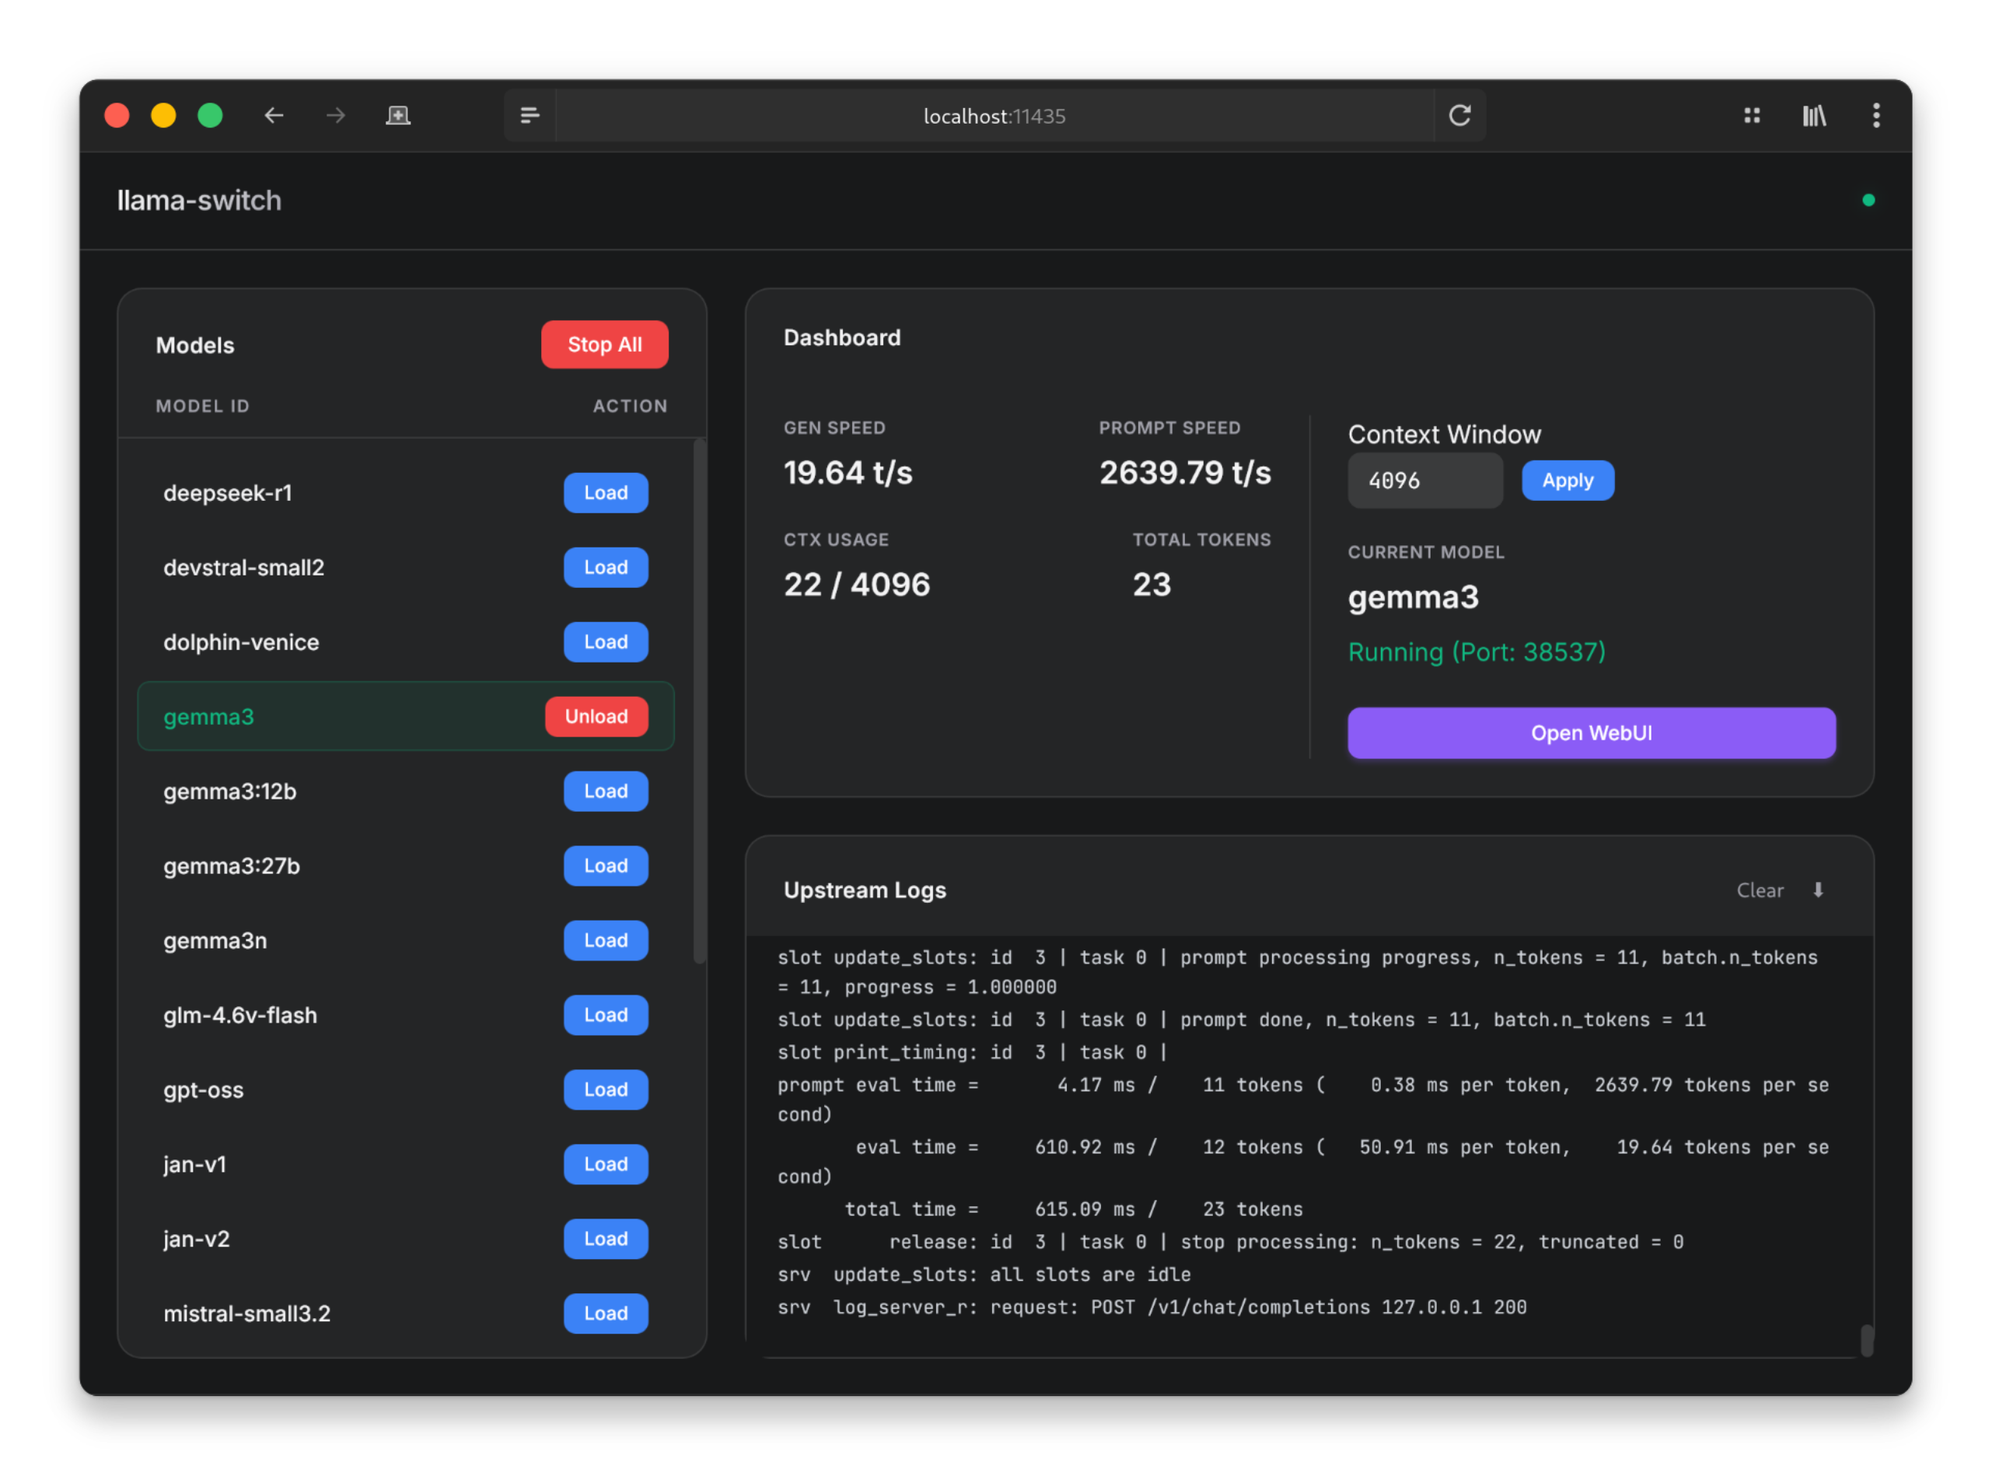
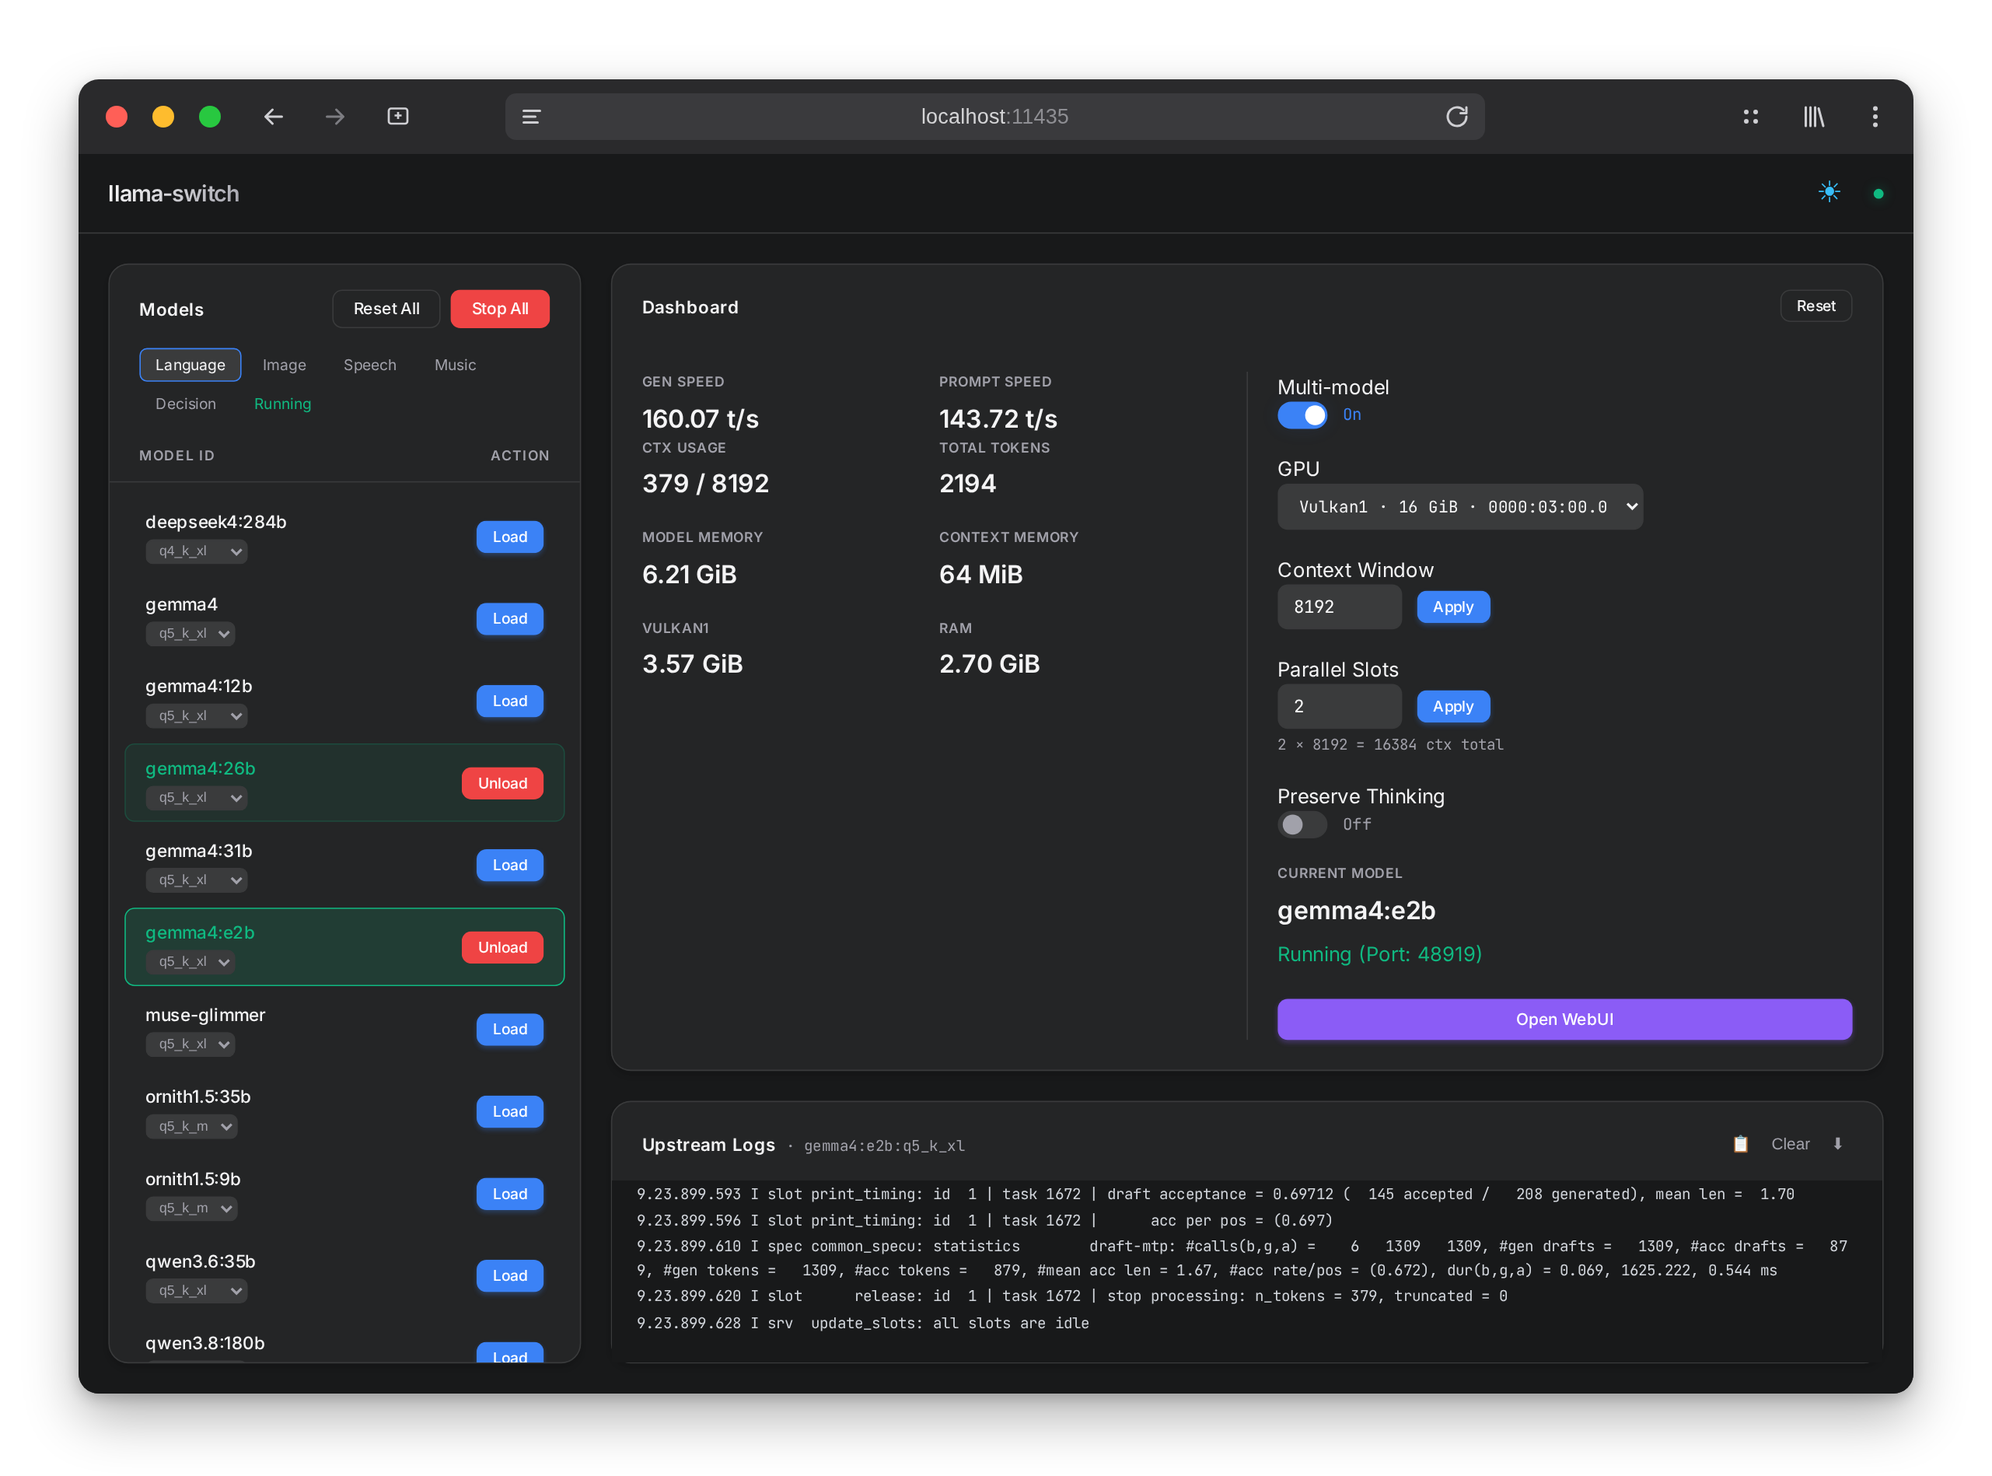
docs: rewrite both READMEs and screenshots for models running side by side

diff --git a/README.md b/README.md
@@ -2,21 +2,29 @@
 
 ![](./ref-dark.png)
 
-A lightweight, modern WebUI manager for switching between local inference servers seamlessly.
+A lightweight, modern WebUI manager for running local inference servers side by side.
 
-Llama Switch puts one dashboard and one OpenAI-compatible endpoint in front of several engines: [llama.cpp](https://github.com/ggerganov/llama.cpp) for text, speech recognition and audio/vision input, [stable-diffusion.cpp](https://github.com/leejet/stable-diffusion.cpp) for images, [qwentts.cpp](https://github.com/ServeurpersoCom/qwentts.cpp) for speech synthesis, [audio.cpp](https://github.com/0xShug0/audio.cpp) for music generation. One model runs at a time; loading another stops the current one automatically.
+Llama Switch puts one dashboard and one OpenAI-compatible endpoint in front of several engines: [llama.cpp](https://github.com/ggerganov/llama.cpp) for text, speech recognition, audio/vision input and decision models, [stable-diffusion.cpp](https://github.com/leejet/stable-diffusion.cpp) for images, [qwentts.cpp](https://github.com/ServeurpersoCom/qwentts.cpp) or [audio.cpp](https://github.com/0xShug0/audio.cpp) for speech synthesis, and audio.cpp for music generation. Several models can run at once, each on its own port and its own cards; with **Multi-model** off it works the old way, one model at a time.
 
 ## Features
 
-- **Four kinds of model in one config**: `llm`, `sd`, `tts` and `music` sections, shown in the UI as **Language**, **Image**, **Speech** and **Music**.
-- **One-click switching**: automatically stops the current model and starts the new one.
-- **Auto-switching from the API**: a request that names a `model` loads it first, whether the name arrives in a JSON body (chat, images, speech) or in a multipart upload (transcriptions, image edits).
-- **Real-time dashboard**, per kind:
+- **Five kinds of model in one config**: `llm`, `sd`, `tts`, `music` and `decision` sections, shown in the UI as **Language**, **Image**, **Speech**, **Music** and **Decision**.
+- **Several models at once**: with **Multi-model** on, loading a model leaves the others running, so a language model, an image model and a voice can be up together. Off, every start stops everything else.
+- **Running tab**: every model that is up, whatever its kind. The tab is green while at least one model is loaded and red when nothing is.
+- **A dashboard per model**: click any row, running or not, and the dashboard describes that model. Every field change restarts it with the new value; whatever is set on a model that is not loaded yet is what **Load** starts it with.
+- **Per-model settings**:
+  - **GPU**: which card the model runs on, or all of them. Image models get one row per module (diffusion, text encoder, VAE); **Profile** keeps what the config says for that module.
+  - **Context Window** (per slot) and **Parallel Slots** for language and decision models.
+  - **Preserve Thinking** for language models, **Output Size** and **Hires Fix** for image models, **Max Frames** for speech.
+- **Reset and Reset All**: a model's settings, or every section's, back to the defaults. Like any field change, a reset restarts what it applies to.
+- **Memory, as the engine reports it**: model and context memory for language and decision models, weights and compute buffer for image models, each split per card and RAM. audio.cpp prints no memory figures, so speech and music on it show none.
+- **Real-time counters**, per kind:
   - **Language:** generation speed (t/s), prompt speed (t/s), context usage, total tokens.
   - **Image:** step time, last image time, step progress, images generated.
   - **Speech:** speed as a multiple of realtime, last clip's length against the time it took, frames generated, clips.
-- **Configurable limits**: context window for `llm`, max frames for `tts`, set before loading a model, remembered per kind.
-- **Upstream Logs**: view raw engine logs directly in the UI.
+  - **Decision:** time of the last decision, its prompt size, requests served.
+- **Auto-switching from the API**: a request that names a `model` loads it first, whether the name arrives in a JSON body (chat, images, speech) or in a multipart upload (transcriptions, image edits).
+- **Upstream Logs**: each model keeps its own log, and the panel names whose log it is showing.
 - **Theme Support**: built-in Dark and Light modes.
 - **WebUI Link**: opens the running engine's own interface on the engine's own address. Engine pages request their paths absolutely, so none of them survive being served under a prefix here.
 - **Config hot-reload**: with `--watch`, edits to the config are picked up without a restart.
@@ -24,8 +32,9 @@ Llama Switch puts one dashboard and one OpenAI-compatible endpoint in front of s
 ## Prerequisites
 
 - **Python 3.8+** with `fastapi`, `uvicorn`, `pyyaml` and `httpx`.
-- **llama-server**: the binary from `llama.cpp`, in `PATH` or given by absolute path in the config.
+- **llama-server**: the binary from `llama.cpp`, in `PATH` or given by absolute path in the config. The GPU picker lists the cards that `llama-server --list-devices` reports, so this one is needed even if you only run other engines.
 - Optional, only for the sections you use: `sd-server` from `stable-diffusion.cpp`, `tts-server` from `qwentts.cpp`, `audiocpp-server` from `audio.cpp` (upstream builds it as `audiocpp_server`).
+- Optional: `vulkaninfo`. With it, each card in the GPU picker is labelled with its PCI address, which is the only thing that tells two identical cards apart.
 
 ## Installation
 
@@ -42,9 +51,23 @@ Llama Switch puts one dashboard and one OpenAI-compatible endpoint in front of s
 
 ## Configuration
 
-Create a `config.yaml` file in the root directory. Models are grouped into up to four sections; you can define as many models as you like in each, and leave out any section you do not use.
+Create a `config.yaml` file in the root directory. Models are grouped into up to five sections; you can define as many models as you like in each, and leave out any section you do not use.
 
-Use `${HOST}`, `${PORT}`, `${CTX}` and `${FRAMES}` placeholders in your command string; the server injects the values automatically. `${CTX}` is the context window and only means anything for `llm`; `${FRAMES}` is the audio frame cap and only means anything for `tts`. The bare forms `$HOST`, `$PORT`, `$CTX` and `$FRAMES` work too.
+Each profile is one command line. The server fills in these placeholders before running it:
+
+| Placeholder | Kinds | Becomes |
+| --- | --- | --- |
+| `${HOST}`, `${PORT}` | all | the interface and a free port for this model |
+| `${CTX}` | `llm`, `decision` | the context window **per slot** times the slot count: what `-c` expects |
+| `${PARALLEL}` | `llm`, `decision` | the slot count, for `--parallel` |
+| `${DEVICES}` | all | the chosen card in the engine's own syntax: `-dev Vulkan1` for llama.cpp, `--backend vulkan --device 1` for audio.cpp |
+| `${DEVICES:<flags>}` | all | as above, but with **All GPUs** / **Profile** chosen it becomes `<flags>`. For `sd` the roles named in `<flags>` are the ones the GPU rows reassign |
+| `${PRESERVE_THINK}` | `llm` | `--reasoning-preserve` or `--no-reasoning-preserve` |
+| `${FRAMES}` | `tts` | the audio frame cap |
+| `${WIDTH}`, `${HEIGHT}` | `sd` | the chosen Output Size |
+| `${HIRES}`, `${HIRES:<flags>}` | `sd` | with Hires Fix on, `--hires` or `<flags>`; off, nothing |
+
+The bare forms `$HOST`, `$PORT`, `$CTX`, `$PARALLEL`, `$FRAMES`, `$WIDTH`, `$HEIGHT` and `$PRESERVE_THINK` work too.
 
 **Example `config.yaml`:**
 
@@ -52,20 +75,21 @@ Use `${HOST}`, `${PORT}`, `${CTX}` and `${FRAMES}` placeholders in your command 
 llm:
   # Model with multiple quantizations
   qwen-3:
-    q4_k_m: llama-server --host ${HOST} --port ${PORT} --model /path/to/qwen3-instruct-q4_k_m.gguf -c ${CTX} -ngl 99
-    q8_k_xl: llama-server --host ${HOST} --port ${PORT} --model /path/to/qwen3-instruct-UD-Q8_K_XL.gguf -c ${CTX} -ngl 99
+    q4_k_m: llama-server --parallel ${PARALLEL} ${DEVICES} --host ${HOST} --port ${PORT} --model /path/to/qwen3-instruct-q4_k_m.gguf -c ${CTX} -ngl 99
+    q8_k_xl: llama-server --parallel ${PARALLEL} ${DEVICES} --host ${HOST} --port ${PORT} --model /path/to/qwen3-instruct-UD-Q8_K_XL.gguf -c ${CTX} -ngl 99
 
   # Multimodal model, vision and/or audio input (with mmproj)
   gemma-3:
-    q4_k_m: llama-server --host ${HOST} --port ${PORT} --model /path/to/gemma-3-it-q4_k_m.gguf --mmproj /path/to/gemma-3-it-mmproj.gguf -c ${CTX} -ngl 99
+    q4_k_m: llama-server --parallel ${PARALLEL} ${DEVICES} --host ${HOST} --port ${PORT} --model /path/to/gemma-3-it-q4_k_m.gguf --mmproj /path/to/gemma-3-it-mmproj.gguf -c ${CTX} -ngl 99
 
   # Speech recognition also runs on llama-server, so it belongs here
   qwen3-asr:
-    q8: llama-server --host ${HOST} --port ${PORT} --model /path/to/Qwen3-ASR-1.7B-Q8_0.gguf --mmproj /path/to/mmproj-Qwen3-ASR-1.7B-Q8_0.gguf -c ${CTX} -ngl 99
+    q8: llama-server --parallel ${PARALLEL} ${DEVICES} --host ${HOST} --port ${PORT} --model /path/to/Qwen3-ASR-1.7B-Q8_0.gguf --mmproj /path/to/mmproj-Qwen3-ASR-1.7B-Q8_0.gguf -c ${CTX} -ngl 99
 
 sd:
+  # Profile layout: diffusion on one card, text encoder and VAE on the other
   z-image:
-    q8_0: sd-server -l ${HOST} --listen-port ${PORT} --diffusion-model /path/to/z_image_turbo-Q8_0.gguf --vae /path/to/ae.safetensors --steps 8 --cfg-scale 1.0 -v
+    q8_0: sd-server -l ${HOST} --listen-port ${PORT} --diffusion-model /path/to/z_image_turbo-Q8_0.gguf --llm /path/to/Qwen3-4B-Q8_0.gguf --vae /path/to/ae.safetensors ${DEVICES:--backend diffusion=Vulkan1,te=Vulkan0,vae=Vulkan0} -W ${WIDTH} -H ${HEIGHT} --steps 8 --cfg-scale 1.0 ${HIRES:--hires --hires-denoising-strength 0.5} -v
 
 tts:
   qwen3-tts:
@@ -73,32 +97,54 @@ tts:
 
 music:
   minimax-music3:
-    q4: audiocpp-server --config /path/to/music.json --host ${HOST} --port ${PORT} --busy-timeout-ms 0
+    q4: audiocpp-server --config /path/to/music.json --host ${HOST} --port ${PORT} ${DEVICES} --busy-timeout-ms 0
+
+decision:
+  # Answers typed questions in one forward pass; served at /v1/systemone
+  clef:
+    q8_0: llama-server --parallel ${PARALLEL} ${DEVICES} --host ${HOST} --port ${PORT} --model /path/to/Clef-Flash-Q8_0.gguf -c ${CTX} -ngl 99
 ```
 
 - `-ngl 99`: offloads layers to GPU (adjust based on your hardware).
-- `-c ${CTX}`: sets the context window (controllable via UI).
-- `--max-new ${FRAMES}`: caps clip length (controllable via UI).
+- `-c ${CTX}`, `--parallel ${PARALLEL}`: the context window and slots, set per model in the UI. Two slots of 8192 ask the engine for 16384.
+- `${DEVICES}`: drop it from a profile and that model ignores the GPU picker.
 
 **Default quantization:** the **first** quant listed for a model is its default. Through the OpenAI-compatible API (`/v1/models`, `/v1/chat/completions`) that default is exposed under the bare model id (e.g. `qwen-3`), while the rest get a `-<quant>` suffix (e.g. `qwen-3-q8_k_xl`). Requesting the bare id loads the first-listed quant, so order each model's variants with the preferred one first.
 
-**Model ids are global.** If the same key appears in two sections, the first one wins in `llm` → `sd` → `tts` → `music` order and the duplicate is logged and skipped.
+**Model ids are global.** If the same key appears in two sections, the first one wins, in the order `llm`, `sd`, `tts`, `music`, `decision`, and the duplicate is logged and skipped.
 
 **Older configs still work.** A pre-sections config that puts everything under a single `models:` key is read as the `llm` section; an explicit `llm:` section always wins over it.
 
+**Memory figures need trace logging.** llama.cpp prints its buffer sizes only at log level 4, so language and decision models are started with `LLAMA_ARG_LOG_VERBOSITY=4`. That level is noisier for the whole run, not just the load: each request adds prompt-cache lines. An idle model would also log `all slots are idle` once a second; the panel drops that one line.
+
 ## API
 
-Every request is served by whichever model is currently loaded. Requests that name a `model` load it first, so a chat client, an image client and a speech client can each pull their own model in without touching the dashboard. A request aimed at a section other than the running one, and naming no model, gets a `409` telling you which kind is loaded.
+A request that names a `model` goes to the instance serving that model, loading it first if it is not up. A request that names none (the chat endpoints always need one) goes to the one running model of that kind: with none running it gets `503`, with several it gets `409` asking which. Naming a model of another kind, say an image model on the chat endpoint, gets `409` with the endpoint that serves it.
+
+Requests to the engines go straight to them and ignore `http_proxy`, so a system-wide proxy does not get in the way.
 
 | Endpoint | Section |
 | --- | --- |
-| `/v1/models` | `llm` (text models only, so chat clients are not offered image backends) |
+| `/v1/models` | every section; each entry carries `type` and, in the ollama-style list, `kind` and `capabilities` |
 | `/v1/chat/completions`, `/v1/completions`, `/v1/responses` | `llm` |
 | `/v1/audio/transcriptions`, `/v1/audio/translations` | `llm`, these are `llama-server`'s own ASR endpoints |
 | `/v1/images/*` (OpenAI), `/sdapi/v1/*` (AUTOMATIC1111), `/sdcpp/v1/*` (native) | `sd` |
 | `/v1/audio/speech`, `/v1/audio/voices` | `tts` |
 | `/v1/tasks/*` | `music`, `audio.cpp`'s own generation endpoint |
-| `/api/config`, `/api/status`, `/api/logs`, `/api/start`, `/api/stop` | management |
+| `/v1/systemone` | `decision` |
+
+Management:
+
+| Endpoint | Does |
+| --- | --- |
+| `GET /api/status[?model=]` | every running instance, plus the remembered settings |
+| `POST /api/start` | start a model with the given settings |
+| `POST /api/stop[?model=]` | stop one model, or all of them |
+| `POST /api/reset[?model=\|?kind=]` | settings back to defaults, restarting what they apply to; without a query, everything |
+| `POST /api/multi` | `{"multi": true}` to keep several models, `false` to evict on every start |
+| `GET /api/logs[?model=]`, `GET /api/logs/owner[?model=]`, `POST /api/logs/clear[?model=]` | a model's log |
+| `GET /api/devices` | the cards the engine reports, with PCI addresses |
+| `GET /api/config` | the config, grouped by section |
 
 ## Usage
 
@@ -111,10 +157,11 @@ Every request is served by whichever model is currently loaded. Requests that na
    Navigate to `http://localhost:11435` in your browser.
 
 3. **Control Models:**
-   - Select a model from the left sidebar and click **Load**.
-   - Change the **Context Window** (language models) or **Max Frames** (speech models) in the dashboard if needed.
+   - Pick a section tab, click a model, set its GPU, context and the rest, then click **Load**.
+   - Turn on **Multi-model** to keep several models up; click any running row, here or on the **Running** tab, to switch the dashboard to it.
+   - Change any field to restart that model with it; **Reset** puts the model back on defaults, **Reset All** does it for everything.
    - Click **Open WebUI** to access the running engine's native interface.
-   - Click **Stop** or load another model to terminate the current session.
+   - Click **Unload** on a model, or **Stop All**.
 
 ### Command line
 
@@ -122,7 +169,8 @@ Every request is served by whichever model is currently loaded. Requests that na
 | --- | --- | --- |
 | `-H`, `--host` | `localhost` | interface for the UI **and** for the engines it launches |
 | `-p`, `--port` | `11435` | UI port (engines get a free port each) |
-| `-c`, `--ctx` | `4096` | default context window |
+| `-c`, `--ctx` | `4096` | default context window, per slot |
+| `-np`, `--parallel` | `1` | default number of slots |
 | `-f`, `--config` | `config.yaml` | config file path |
 | `-w`, `--watch` | off | reload the config when it changes on disk |
 
@@ -130,4 +178,4 @@ Every request is served by whichever model is currently loaded. Requests that na
 
 Everything is served over plain `http`. Browsers only hand over the microphone in a secure context, and `localhost` is the only plain-http address that counts as one, so recording controls are unavailable from a phone or a laptop reaching this machine by hostname or IP.
 
-> Note that `--watch` reloads the config by **stopping whatever is running**. Do not edit the config while a model is mid-generation.
+> Note that `--watch` reloads the config by **stopping every running model**. Do not edit the config while a model is mid-generation.
